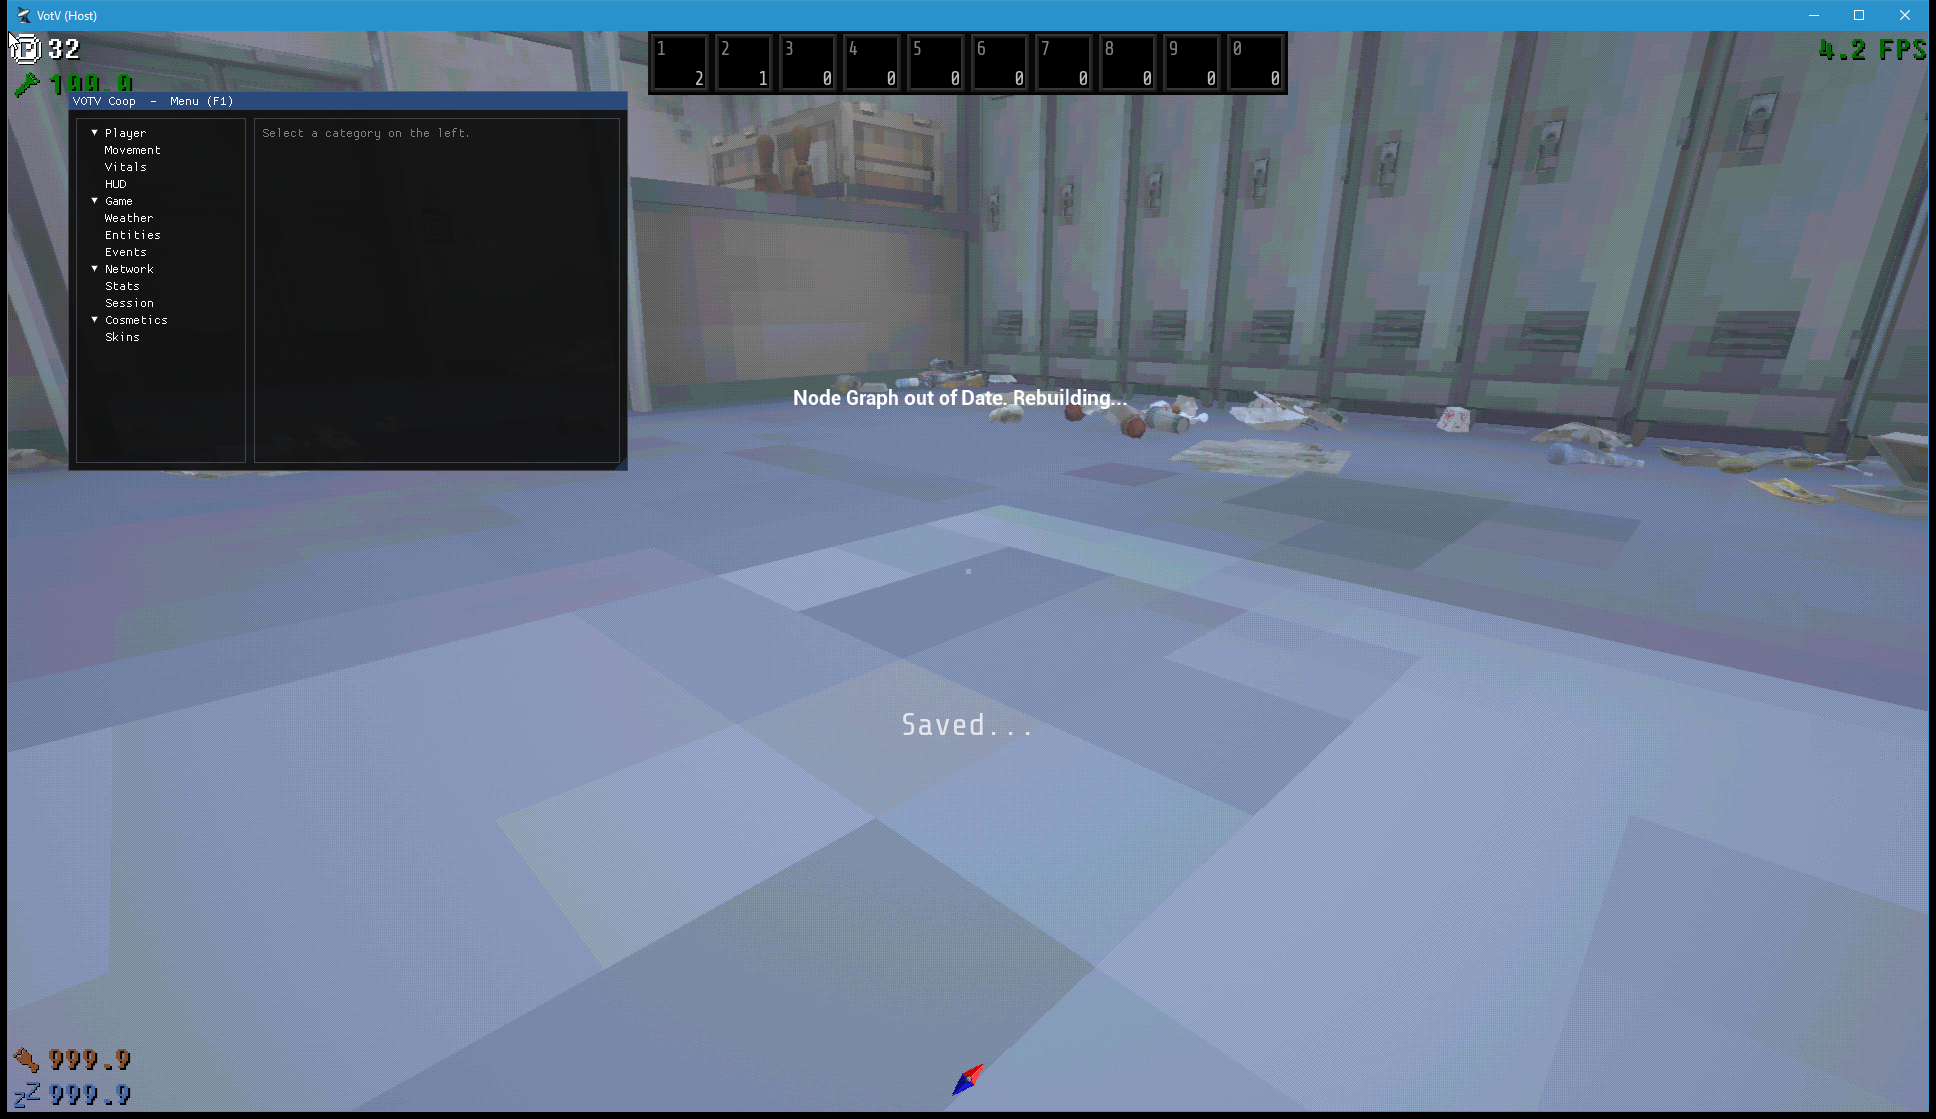
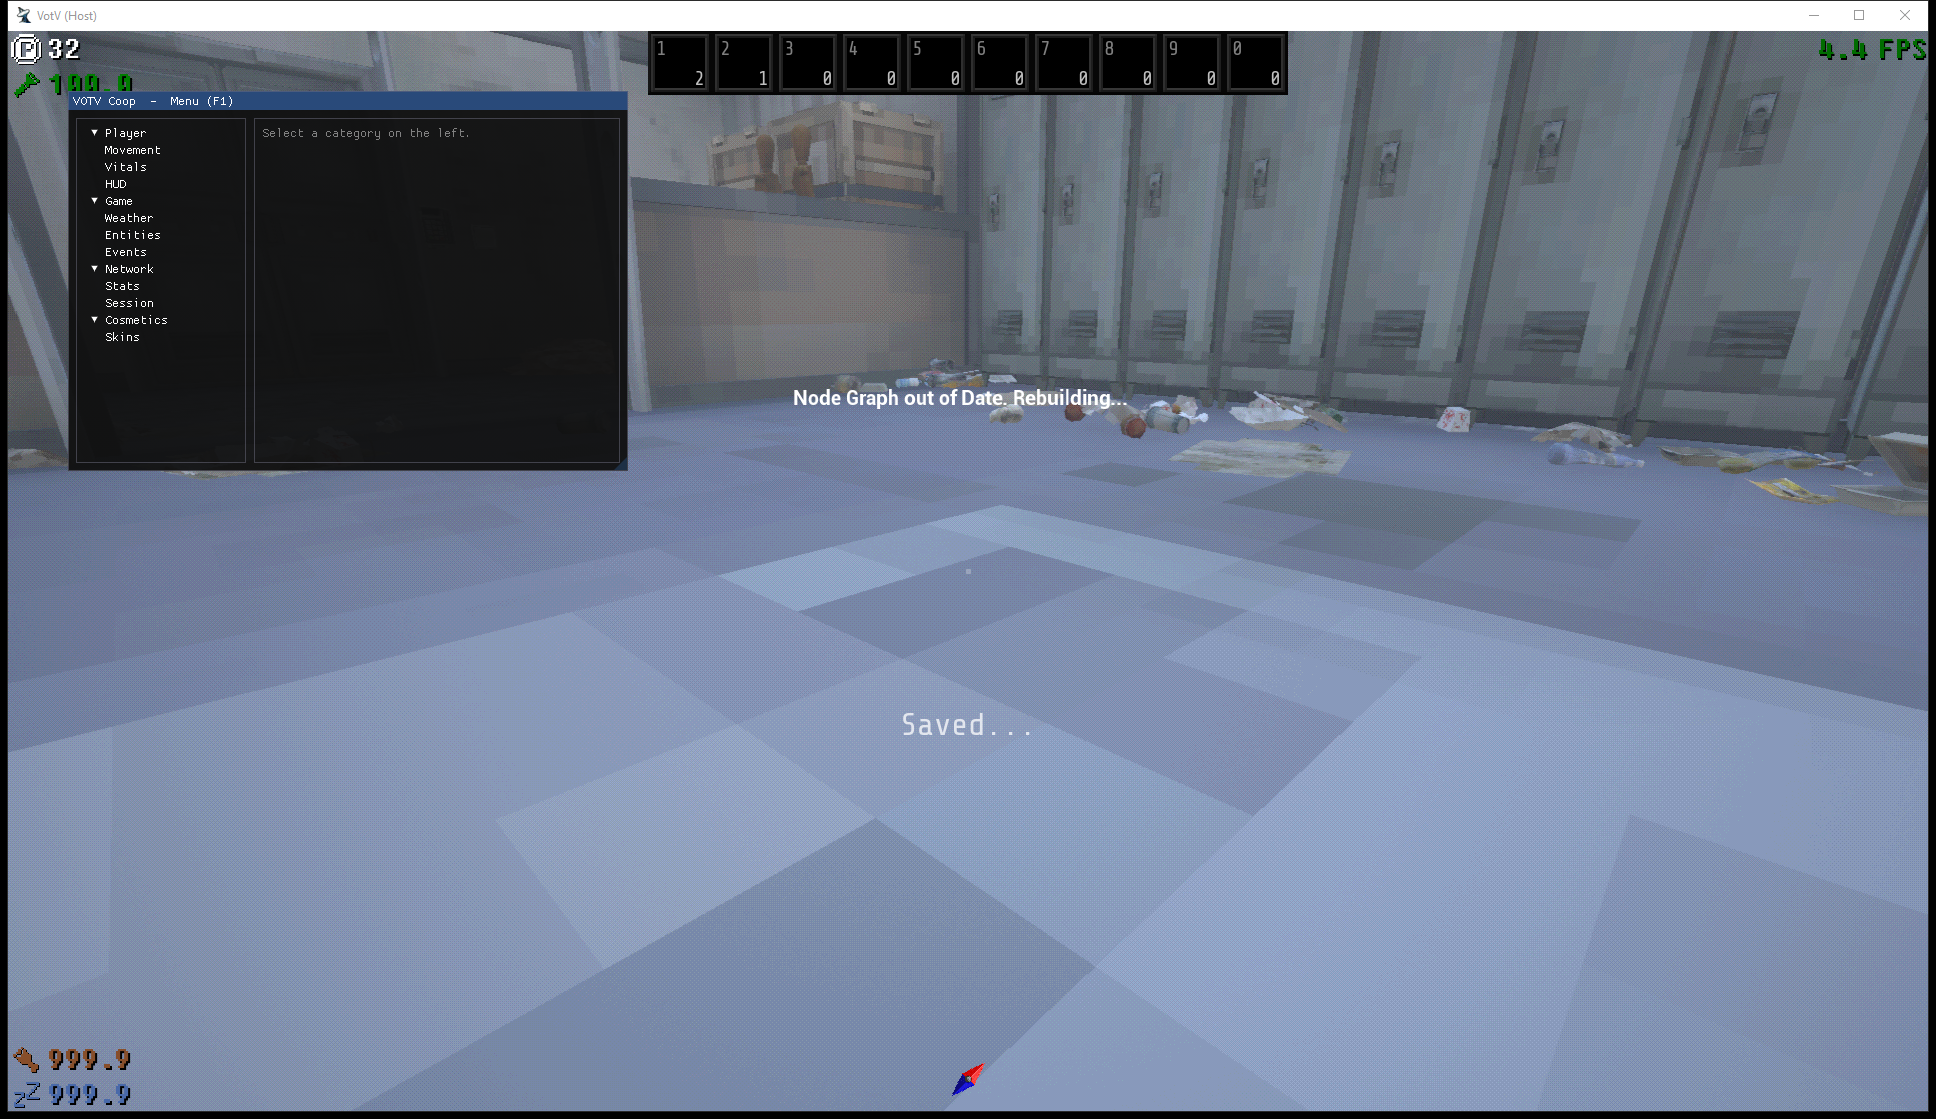
[imgui-menu cursor] single visible tracking cursor + keyboard nav (F1 menu)
Hands-on follow-up to the dev-menu foundation (5dc7aa6): the menu was usable
but the mouse showed TWO cursors (our ImGui software cursor following the mouse
+ UE4's OS cursor stuck at the window center, recentered every tick for
mouselook). User-confirmed fixed.

Root cause: two cursors were drawn (software + OS) and the OS one was being
yanked to center every frame. Fix:
- Hook user32!SetCursorPos (MinHook) and no-op it while the menu is visible, so
  UE4 can't recenter the cursor -- the real cursor then tracks the mouse and the
  ImGui backend reads its true position (WM_MOUSEMOVE / GetCursorPos). The old
  WM_INPUT virtual-cursor accumulator (and ClientSize / <algorithm>) is deleted.
- ImGui draws its OWN software cursor (io.MouseDrawCursor=true): VOTV keeps the
  OS cursor HIDDEN during play, so a bare OS cursor would be invisible (hands-on:
  "cursor invisible but hover works"). The WM_SETCURSOR -> SetCursor(NULL) hide
  force-suppresses the OS cursor so it can never become a second one in any
  state. No ShowCursor (avoids the counter-drift the audit flagged across the
  non-F1 visibility paths).
- Keyboard nav: io.ConfigFlags |= ImGuiConfigFlags_NavEnableKeyboard (arrow-key
  move + Enter/Space activate). WndProc already feeds keydown to ImGui.

Verified: build clean; SetCursorPos+present hooks install + DX11 bring-up OK on
both peers; 35s LAN smoke PASS (client connected, host puppet spawned, RSS
stable, zero errors/SEH); menushot renders; user hands-on "works great".

Changed region(s): [[0.0, 0.0, 1.0, 0.0304], [0.3409, 0.0912, 0.3719, 0.1215]]

diff --git a/src/votv-coop/src/ui/imgui_overlay.cpp b/src/votv-coop/src/ui/imgui_overlay.cpp
@@ -9,9 +9,15 @@
 //      exist -- capture them, bring up ImGui + the DX11 backend + a WndProc hook,
 //      then each frame run the ImGui pass and draw the active UI surface.
 //   3. WndProcDetour: F1 toggles; while visible, route input to ImGui + swallow it
-//      so the game doesn't also act on it. UE4 uses RAW INPUT for mouselook and
-//      locks the OS cursor, so we keep a VIRTUAL cursor (accumulated from WM_INPUT
-//      deltas) and feed it to ImGui -- otherwise the software cursor would stick.
+//      so the game doesn't also act on it (we still eat WM_INPUT so UE4's raw-input
+//      mouselook can't spin the camera behind the menu). CURSOR model: ImGui draws
+//      its OWN software cursor (io.MouseDrawCursor=true) -- always visible regardless
+//      of UE4's OS-cursor state (UE4 keeps the OS cursor HIDDEN during play, so a
+//      bare OS cursor would be invisible). To track the real mouse we no-op
+//      SetCursorPos while the menu is up (the SetCursorPos hook) so UE4 can't snap
+//      the cursor back to the window center, and we force-hide the OS cursor on
+//      WM_SETCURSOR so it can never become a second cursor. ONE visible cursor.
+//      Keyboard nav (arrows + Enter) via ImGuiConfigFlags_NavEnableKeyboard.
 // DX12 is detected (GetDevice for ID3D11Device fails) and logged but not yet drawn.
 
 #include "ui/imgui_overlay.h"
@@ -24,7 +30,6 @@
 #include <d3d11.h>
 #include <dxgi.h>
 
-#include <algorithm>
 #include <atomic>
 #include <cstdint>
 
@@ -49,6 +54,13 @@ ResizeBuffersFn g_origResize  = nullptr;
 void*           g_presentTarget = nullptr;
 void*           g_resizeTarget  = nullptr;
 
+// user32!SetCursorPos -- hooked so we can no-op UE4's per-tick cursor recentering
+// while the menu is visible (otherwise the OS cursor is snapped back to the window
+// center every frame and can't track the mouse over the menu).
+using SetCursorPosFn = BOOL(WINAPI*)(int, int);
+SetCursorPosFn  g_origSetCursorPos  = nullptr;
+void*           g_setCursorPosTarget = nullptr;
+
 ID3D11Device*           g_device  = nullptr;
 ID3D11DeviceContext*    g_context = nullptr;
 ID3D11RenderTargetView* g_rtv     = nullptr;
@@ -60,19 +72,6 @@ std::atomic<bool> g_imguiReady{false};  // first-present init done (DX11)
 std::atomic<bool> g_dx12Logged{false};  // logged the DX12-unsupported notice once
 std::atomic<bool> g_visible{false};     // menu shown (F1)
 std::atomic<bool> g_inFrame{false};     // render-thread inside the ImGui pass (shutdown waits on this)
-
-// Virtual cursor in client pixels. UE4 locks the OS cursor (raw-input mouselook),
-// so GetCursorPos returns a fixed point and ImGui's software cursor would stick.
-// We accumulate WM_INPUT relative deltas here (window thread writes, render thread
-// reads) and push it into io.MousePos each frame.
-std::atomic<int> g_vcurX{0};
-std::atomic<int> g_vcurY{0};
-
-void ClientSize(int& w, int& h) {
-    RECT rc{};
-    if (g_hwnd && ::GetClientRect(g_hwnd, &rc)) { w = rc.right - rc.left; h = rc.bottom - rc.top; }
-    else { w = 1920; h = 1080; }
-}
 
 void CreateRTV(IDXGISwapChain* sc) {
     if (g_rtv || !g_device) return;
@@ -90,36 +89,33 @@ void ReleaseRTV() {
     if (g_rtv) { g_rtv->Release(); g_rtv = nullptr; }
 }
 
+// While the menu owns input, swallow UE4's per-tick cursor recenter so the single
+// real OS cursor tracks the mouse instead of being snapped to the window center.
+BOOL WINAPI SetCursorPosDetour(int x, int y) {
+    if (g_visible.load(std::memory_order_relaxed)) return TRUE;
+    return g_origSetCursorPos(x, y);
+}
+
 LRESULT CALLBACK WndProcDetour(HWND hwnd, UINT msg, WPARAM wParam, LPARAM lParam) {
-    // F1 edge -> toggle the menu (consume the key so the game never sees F1). On
-    // OPEN, seed the virtual cursor at the window center so it starts on-screen.
+    // F1 edge -> toggle the menu (consume the key so the game never sees F1). No
+    // ShowCursor: VOTV already shows the OS cursor during play (it's the one that was
+    // stuck at center); io.MouseDrawCursor=false + the SetCursorPos no-op simply lets
+    // that single cursor track instead of being recentered. Touching the ShowCursor
+    // counter here only risks drift across the non-F1 visibility paths (env-open, the
+    // SEH render-fault reset, SetVisible) -- state, not a counter, drives the cursor.
     if (msg == WM_KEYDOWN && wParam == VK_F1) {
-        const bool now = !g_visible.load(std::memory_order_relaxed);
-        if (now) { int w, h; ClientSize(w, h); g_vcurX.store(w / 2, std::memory_order_relaxed); g_vcurY.store(h / 2, std::memory_order_relaxed); }
-        g_visible.store(now, std::memory_order_relaxed);
+        g_visible.store(!g_visible.load(std::memory_order_relaxed), std::memory_order_relaxed);
         return 0;
     }
     if (g_visible.load(std::memory_order_relaxed) && g_imguiReady.load(std::memory_order_acquire)) {
-        // Accumulate raw mouse deltas into the virtual cursor (UE4 mouselook path).
-        if (msg == WM_INPUT) {
-            UINT size = 0;
-            ::GetRawInputData(reinterpret_cast<HRAWINPUT>(lParam), RID_INPUT, nullptr, &size, sizeof(RAWINPUTHEADER));
-            BYTE buf[64];
-            if (size > 0 && size <= sizeof(buf) &&
-                ::GetRawInputData(reinterpret_cast<HRAWINPUT>(lParam), RID_INPUT, buf, &size, sizeof(RAWINPUTHEADER)) == size) {
-                const RAWINPUT* ri = reinterpret_cast<const RAWINPUT*>(buf);
-                if (ri->header.dwType == RIM_TYPEMOUSE &&
-                    (ri->data.mouse.usFlags & MOUSE_MOVE_ABSOLUTE) == 0) {
-                    int w, h; ClientSize(w, h);
-                    int nx = g_vcurX.load(std::memory_order_relaxed) + ri->data.mouse.lLastX;
-                    int ny = g_vcurY.load(std::memory_order_relaxed) + ri->data.mouse.lLastY;
-                    g_vcurX.store(std::clamp(nx, 0, w), std::memory_order_relaxed);
-                    g_vcurY.store(std::clamp(ny, 0, h), std::memory_order_relaxed);
-                }
-            }
-        }
         ImGui_ImplWin32_WndProcHandler(hwnd, msg, wParam, lParam);
+        // Force-hide the OS cursor over the client area: ImGui draws its own, so a
+        // visible OS cursor would be a second one. SetCursor(NULL) wins regardless of
+        // UE4's ShowCursor count; return TRUE halts further WM_SETCURSOR processing.
+        if (msg == WM_SETCURSOR && LOWORD(lParam) == HTCLIENT) { ::SetCursor(nullptr); return TRUE; }
         // Swallow input the game would otherwise act on so clicks/keys go to ImGui.
+        // WM_INPUT is swallowed too: it's UE4's raw-input mouselook feed -- if the
+        // game saw it, the camera would spin while we move the mouse over the menu.
         switch (msg) {
             case WM_INPUT:
             case WM_MOUSEMOVE: case WM_LBUTTONDOWN: case WM_LBUTTONUP:
@@ -156,7 +152,10 @@ bool BringUpDX11(IDXGISwapChain* sc) {
     if (!ImGui::GetCurrentContext()) { ImGui::CreateContext(); ctxCreated = true; }
     ImGuiIO& io = ImGui::GetIO();
     io.IniFilename = nullptr;     // don't litter a layout .ini next to the game
-    io.MouseDrawCursor = true;    // software cursor -- the game hides the OS cursor
+    io.MouseDrawCursor = true;    // ImGui draws its OWN cursor -- always visible (UE4 keeps
+                                  // the OS cursor hidden during play); the WM_SETCURSOR
+                                  // hide + SetCursorPos no-op keep it the only one + tracking
+    io.ConfigFlags |= ImGuiConfigFlags_NavEnableKeyboard;  // arrow-key move + Enter/Space activate
     ImGui::StyleColorsDark();
 
     if (!ImGui_ImplWin32_Init(desc.OutputWindow)) {
@@ -190,11 +189,7 @@ bool BringUpDX11(IDXGISwapChain* sc) {
 void RenderFrameGuarded() {
     __try {
         ImGui_ImplDX11_NewFrame();
-        ImGui_ImplWin32_NewFrame();
-        // Override the mouse position with our virtual (raw-input) cursor: the
-        // backend's GetCursorPos read is wrong while the game locks the OS cursor.
-        ImGui::GetIO().MousePos = ImVec2(static_cast<float>(g_vcurX.load(std::memory_order_relaxed)),
-                                         static_cast<float>(g_vcurY.load(std::memory_order_relaxed)));
+        ImGui_ImplWin32_NewFrame();  // sets io.MousePos from the real OS cursor (WM_MOUSEMOVE / GetCursorPos)
         ImGui::NewFrame();
 
         ui::dev_menu::Render();
@@ -306,6 +301,21 @@ bool Init() {
         UE_LOGE("imgui_overlay: MinHook Install failed (present=%d resize=%d)", p ? 1 : 0, r ? 1 : 0);
         return false;
     }
+    // Hook user32!SetCursorPos so we can neutralize UE4's per-tick cursor recenter
+    // while the menu is visible (non-fatal if it can't hook -- the menu still works,
+    // the cursor just won't track as cleanly).
+    if (HMODULE u32 = ::GetModuleHandleW(L"user32.dll")) {
+        g_setCursorPosTarget = reinterpret_cast<void*>(::GetProcAddress(u32, "SetCursorPos"));
+        if (g_setCursorPosTarget &&
+            ue_wrap::hook::Install(g_setCursorPosTarget, &SetCursorPosDetour,
+                                   reinterpret_cast<void**>(&g_origSetCursorPos))) {
+            UE_LOGI("imgui_overlay: SetCursorPos hook installed (@%p) -- UE4 cursor recenter is "
+                    "neutralized while the menu is up so the OS cursor tracks the mouse", g_setCursorPosTarget);
+        } else {
+            UE_LOGW("imgui_overlay: could not hook SetCursorPos -- cursor may not track over the menu");
+            g_setCursorPosTarget = nullptr;
+        }
+    }
     g_installed.store(true, std::memory_order_release);
     // Autonomous screenshot test: VOTVCOOP_MENU_OPEN=1 starts the menu visible (the
     // smoke can't press F1). Win32 env read (no CRT getenv -- /W4-clean in a DLL).
@@ -330,6 +340,7 @@ void Shutdown() {
     const bool wasReady = g_imguiReady.exchange(false);
     if (g_presentTarget) ue_wrap::hook::Uninstall(g_presentTarget);
     if (g_resizeTarget)  ue_wrap::hook::Uninstall(g_resizeTarget);
+    if (g_setCursorPosTarget) { ue_wrap::hook::Uninstall(g_setCursorPosTarget); g_setCursorPosTarget = nullptr; }
     // Wait out any render-thread frame in flight before tearing down the context
     // (MinHook re-arms the original but does not join in-flight detour calls).
     for (int i = 0; i < 200 && g_inFrame.load(std::memory_order_acquire); ++i) ::Sleep(1);